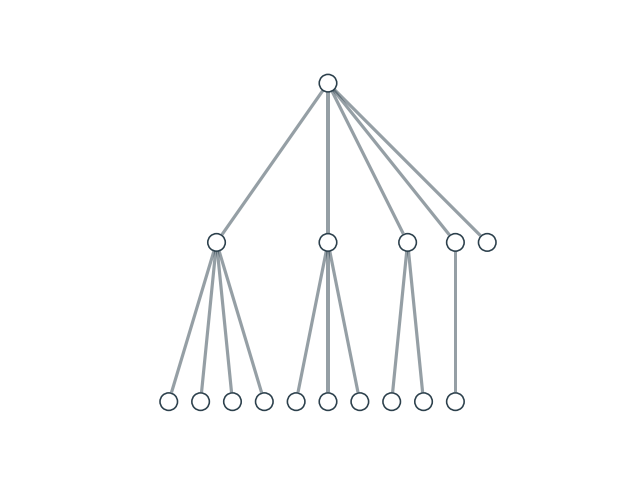
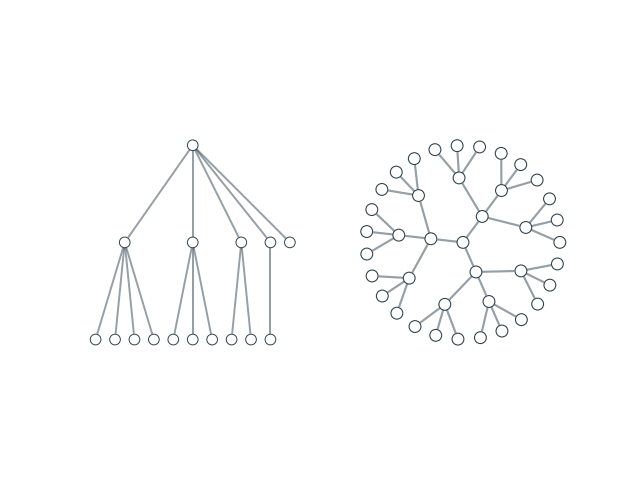
Added documentation for the radial node layout

diff --git a/docs/source/sphinx_gallery_output/plot_08_dot_layout.py b/docs/source/sphinx_gallery_output/plot_08_dot_layout.py
@@ -1,14 +1,17 @@
 #!/usr/bin/env python
 """
-Dot node layout
-===============
+Dot and radial node layouts
+===========================
 
-Plot a tree or other directed, acyclic graph with a 'dot' layout using the Sugiyama algorithm implemented in grandalf_.
+Plot a tree or other directed, acyclic graph with the :code:`'dot'` or :code:`'radial'` node layout.
+Netgraph uses an implementation of the Sugiyama algorithm provided by the grandalf_ library
+(and thus does not require Graphviz to be installed).
 
 .. _grandalf: https://github.com/bdcht/grandalf
 """
 
 import matplotlib.pyplot as plt
+import networkx as nx
 
 from netgraph import Graph
 
@@ -30,6 +33,9 @@ unbalanced_tree = [
     (5, 15)
 ]
 
-Graph(unbalanced_tree, node_layout='dot')
+balanced_tree = nx.balanced_tree(3, 3)
 
+fig, (ax1, ax2) = plt.subplots(1, 2)
+Graph(unbalanced_tree, node_layout='dot', ax=ax1)
+Graph(balanced_tree, node_layout='radial', ax=ax2)
 plt.show()

diff --git a/examples/plot_08_dot_layout.py b/examples/plot_08_dot_layout.py
@@ -1,14 +1,17 @@
 #!/usr/bin/env python
 """
-Dot node layout
-===============
+Dot and radial node layouts
+===========================
 
-Plot a tree or other directed, acyclic graph with a 'dot' layout using the Sugiyama algorithm implemented in grandalf_.
+Plot a tree or other directed, acyclic graph with the :code:`'dot'` or :code:`'radial'` node layout.
+Netgraph uses an implementation of the Sugiyama algorithm provided by the grandalf_ library
+(and thus does not require Graphviz to be installed).
 
 .. _grandalf: https://github.com/bdcht/grandalf
 """
 
 import matplotlib.pyplot as plt
+import networkx as nx
 
 from netgraph import Graph
 
@@ -30,6 +33,9 @@ unbalanced_tree = [
     (5, 15)
 ]
 
-Graph(unbalanced_tree, node_layout='dot')
+balanced_tree = nx.balanced_tree(3, 3)
 
+fig, (ax1, ax2) = plt.subplots(1, 2)
+Graph(unbalanced_tree, node_layout='dot', ax=ax1)
+Graph(balanced_tree, node_layout='radial', ax=ax2)
 plt.show()

diff --git a/docs/source/sphinx_gallery_output/sg_execution_times.rst b/docs/source/sphinx_gallery_output/sg_execution_times.rst
@@ -5,10 +5,10 @@
 
 Computation times
 =================
-**00:00.362** total execution time for **sphinx_gallery_output** files:
+**00:00.366** total execution time for **sphinx_gallery_output** files:
 
 +-----------------------------------------------------------------------------------------------------------------------------------------+-----------+--------+
-| :ref:`sphx_glr_sphinx_gallery_output_plot_14_bipartite_layout.py` (``plot_14_bipartite_layout.py``)                                     | 00:00.362 | 0.0 MB |
+| :ref:`sphx_glr_sphinx_gallery_output_plot_08_dot_layout.py` (``plot_08_dot_layout.py``)                                                 | 00:00.366 | 0.0 MB |
 +-----------------------------------------------------------------------------------------------------------------------------------------+-----------+--------+
 | :ref:`sphx_glr_sphinx_gallery_output_plot_01_default.py` (``plot_01_default.py``)                                                       | 00:00.000 | 0.0 MB |
 +-----------------------------------------------------------------------------------------------------------------------------------------+-----------+--------+
@@ -24,8 +24,6 @@ Computation times
 +-----------------------------------------------------------------------------------------------------------------------------------------+-----------+--------+
 | :ref:`sphx_glr_sphinx_gallery_output_plot_07_custom_layout.py` (``plot_07_custom_layout.py``)                                           | 00:00.000 | 0.0 MB |
 +-----------------------------------------------------------------------------------------------------------------------------------------+-----------+--------+
-| :ref:`sphx_glr_sphinx_gallery_output_plot_08_dot_layout.py` (``plot_08_dot_layout.py``)                                                 | 00:00.000 | 0.0 MB |
-+-----------------------------------------------------------------------------------------------------------------------------------------+-----------+--------+
 | :ref:`sphx_glr_sphinx_gallery_output_plot_09_circular_layout.py` (``plot_09_circular_layout.py``)                                       | 00:00.000 | 0.0 MB |
 +-----------------------------------------------------------------------------------------------------------------------------------------+-----------+--------+
 | :ref:`sphx_glr_sphinx_gallery_output_plot_10_community_layout.py` (``plot_10_community_layout.py``)                                     | 00:00.000 | 0.0 MB |
@@ -35,4 +33,8 @@ Computation times
 | :ref:`sphx_glr_sphinx_gallery_output_plot_12_multicomponent_graphs.py` (``plot_12_multicomponent_graphs.py``)                           | 00:00.000 | 0.0 MB |
 +-----------------------------------------------------------------------------------------------------------------------------------------+-----------+--------+
 | :ref:`sphx_glr_sphinx_gallery_output_plot_13_arcdiagram.py` (``plot_13_arcdiagram.py``)                                                 | 00:00.000 | 0.0 MB |
++-----------------------------------------------------------------------------------------------------------------------------------------+-----------+--------+
+| :ref:`sphx_glr_sphinx_gallery_output_plot_14_bipartite_layout.py` (``plot_14_bipartite_layout.py``)                                     | 00:00.000 | 0.0 MB |
++-----------------------------------------------------------------------------------------------------------------------------------------+-----------+--------+
+| :ref:`sphx_glr_sphinx_gallery_output_plot_15_highlight_paths.py` (``plot_15_highlight_paths.py``)                                       | 00:00.000 | 0.0 MB |
 +-----------------------------------------------------------------------------------------------------------------------------------------+-----------+--------+

diff --git a/docs/source/sphinx_gallery_output/plot_08_dot_layout.rst b/docs/source/sphinx_gallery_output/plot_08_dot_layout.rst
@@ -18,14 +18,16 @@
 .. _sphx_glr_sphinx_gallery_output_plot_08_dot_layout.py:
 
 
-Dot node layout
-===============
+Dot and radial node layouts
+===========================
 
-Plot a tree or other directed, acyclic graph with a 'dot' layout using the Sugiyama algorithm implemented in grandalf_.
+Plot a tree or other directed, acyclic graph with the :code:`'dot'` or :code:`'radial'` node layout.
+Netgraph uses an implementation of the Sugiyama algorithm provided by the grandalf_ library
+(and thus does not require Graphviz to be installed).
 
 .. _grandalf: https://github.com/bdcht/grandalf
 
-.. GENERATED FROM PYTHON SOURCE LINES 10-36
+.. GENERATED FROM PYTHON SOURCE LINES 12-42
 
 
 
@@ -42,6 +44,7 @@ Plot a tree or other directed, acyclic graph with a 'dot' layout using the Sugiy
 
 
     import matplotlib.pyplot as plt
+    import networkx as nx
 
     from netgraph import Graph
 
@@ -63,14 +66,17 @@ Plot a tree or other directed, acyclic graph with a 'dot' layout using the Sugiy
         (5, 15)
     ]
 
-    Graph(unbalanced_tree, node_layout='dot')
+    balanced_tree = nx.balanced_tree(3, 3)
 
+    fig, (ax1, ax2) = plt.subplots(1, 2)
+    Graph(unbalanced_tree, node_layout='dot', ax=ax1)
+    Graph(balanced_tree, node_layout='radial', ax=ax2)
     plt.show()
 
 
 .. rst-class:: sphx-glr-timing
 
-   **Total running time of the script:** ( 0 minutes  0.115 seconds)
+   **Total running time of the script:** ( 0 minutes  0.366 seconds)
 
 
 .. _sphx_glr_download_sphinx_gallery_output_plot_08_dot_layout.py:

diff --git a/docs/source/sphinx_gallery_output/index.rst b/docs/source/sphinx_gallery_output/index.rst
@@ -158,12 +158,12 @@ Basic Examples
 
 .. raw:: html
 
-    <div class="sphx-glr-thumbcontainer" tooltip="Plot a tree or other directed, acyclic graph with a &#x27;dot&#x27; layout using the Sugiyama algorithm i...">
+    <div class="sphx-glr-thumbcontainer" tooltip="Plot a tree or other directed, acyclic graph with the &#x27;dot&#x27; or &#x27;radial&#x27; node layout. Netgraph u...">
 
 .. only:: html
 
  .. figure:: /sphinx_gallery_output/images/thumb/sphx_glr_plot_08_dot_layout_thumb.png
-     :alt: Dot node layout
+     :alt: Dot and radial node layouts
 
      :ref:`sphx_glr_sphinx_gallery_output_plot_08_dot_layout.py`
 
@@ -302,6 +302,27 @@ Basic Examples
    :hidden:
 
    /sphinx_gallery_output/plot_14_bipartite_layout
+
+.. raw:: html
+
+    <div class="sphx-glr-thumbcontainer" tooltip="Highlight paths">
+
+.. only:: html
+
+ .. figure:: /sphinx_gallery_output/images/thumb/sphx_glr_plot_15_highlight_paths_thumb.png
+     :alt: Highlight paths
+
+     :ref:`sphx_glr_sphinx_gallery_output_plot_15_highlight_paths.py`
+
+.. raw:: html
+
+    </div>
+
+
+.. toctree::
+   :hidden:
+
+   /sphinx_gallery_output/plot_15_highlight_paths
 .. raw:: html
 
     <div class="sphx-glr-clear"></div>
